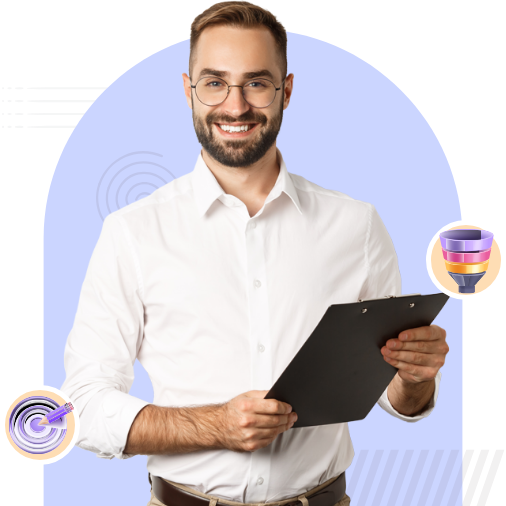
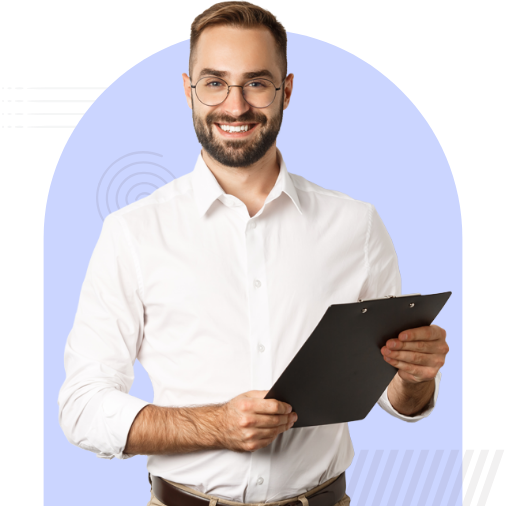
creditos

Changed region(s): [[0.83, 0.415, 1.0, 0.5929], [0.0, 0.7411, 0.1482, 0.919]]

diff --git a/src/config/global.js b/src/config/global.js
@@ -5,7 +5,16 @@ export default {
       'El componente formativo desarrolla la capacidad de comprender la ética como fundamento de la gestión del talento humano. Aborda los principios y valores éticos, las relaciones interpersonales, la cultura y el clima organizacional, y la inteligencia emocional, con el fin de orientar decisiones justas y construir ambientes laborales respetuosos en las organizaciones.',
     imagenBannerPrincipal: '@/assets/curso/portada/ilustracion.png',
     fondoBannerPrincipal: '@/assets/curso/portada/fondo-banner.png',
-    imagenesDecorativasBanner: [],
+    imagenesDecorativasBanner: [
+      {
+        clases: ['banner-principal-decorativo-1', 'd-none', 'd-lg-block'],
+        imagen: '@/assets/curso/portada/decorativo-1.png',
+      },
+      {
+        clases: ['banner-principal-decorativo-2', 'd-none', 'd-lg-block'],
+        imagen: '@/assets/curso/portada/decorativo-2.png',
+      },
+    ],
   },
   menuPrincipal: {
     menu: [
@@ -157,14 +166,84 @@ export default {
   },
   glosario: [
     {
-      termino: 'Término',
-      significado: 'Definición',
+      termino: 'Alteridad',
+      significado:
+        'capacidad de reconocer al otro como un ser diferente, con su propia historia, dignidad y perspectiva, y de relacionarse con él desde el reconocimiento y no desde la negación de su diferencia.',
+    },
+    {
+      termino: 'Clima organizacional',
+      significado:
+        'percepción colectiva que tienen los integrantes de una organización sobre el ambiente de trabajo, influida por factores como liderazgo, comunicación, equidad, desarrollo y relaciones interpersonales.',
+    },
+    {
+      termino: 'Cultura organizacional',
+      significado:
+        'conjunto de valores, creencias, normas y prácticas compartidas que definen la identidad de una organización y orientan el comportamiento de sus integrantes.',
+    },
+    {
+      termino: 'Ética',
+      significado:
+        'disciplina filosófica que estudia la conducta humana, sus principios y los criterios para distinguir lo correcto de lo incorrecto en las acciones de las personas.',
+    },
+    {
+      termino: 'Gestión del talento humano',
+      significado:
+        'conjunto de prácticas, políticas y procesos orientados a atraer, desarrollar, motivar y retener a las personas que contribuyen al logro de los objetivos institucionales.',
+    },
+    {
+      termino: 'Inteligencia emocional',
+      significado:
+        'capacidad de reconocer las emociones propias y ajenas, regularlas y emplearlas para orientar el pensamiento, la conducta y las relaciones.',
+    },
+    {
+      termino: 'Meritocracia',
+      significado:
+        'criterio de asignación de cargos, ascensos y reconocimientos según las capacidades y los logros demostrados, y no según vínculos personales o afinidades.',
+    },
+    {
+      termino: 'Política organizacional',
+      significado:
+        'lineamiento general establecido por la organización para orientar decisiones y comportamientos en áreas específicas.',
+    },
+    {
+      termino: 'Respeto',
+      significado:
+        'actitud de reconocimiento y consideración hacia la dignidad, ideas, tiempos, necesidades y derechos de los demás.',
     },
   ],
   referencias: [
     {
-      referencia: '---',
-      link: '---',
+      referencia:
+        'Cortina, A. (2013). <em>Ética de la razón cordial: Educar en la ciudadanía en el siglo XXI</em>. Ediciones Nobel.',
+    },
+    {
+      referencia:
+        'Goleman, D. (2012). <em>La inteligencia emocional en la empresa</em>. Vergara.',
+      link: 'https://www.bibliotecadigitaldebogota.gov.co/resources/3713806/',
+    },
+    {
+      referencia:
+        'Kant, I. (2013). <em>Fundamentación de la metafísica de las costumbres</em> (M. García Morente, Trad.). Tecnos. (Obra original publicada en 1785).',
+    },
+    {
+      referencia:
+        'Levinas, E. (2000). <em>Ética e infinito</em> (J. M. Ayuso Díez, Trad.). Gráficas Rógar.',
+    },
+    {
+      referencia:
+        'Llano, C. (2008). <em>El empresario y su mundo</em>. McGraw-Hill.',
+    },
+    {
+      referencia:
+        'Maslow, A. H. (2005). <em>El management según Maslow: Una visión humanista para la empresa de hoy</em>. Paidós.',
+    },
+    {
+      referencia:
+        'Ministerio de Trabajo. (2015). <em>Código Sustantivo del Trabajo</em>. República de Colombia.',
+    },
+    {
+      referencia:
+        'Robbins, S. P., y Judge, T. A. (2017). <em>Comportamiento organizacional</em> (17.ª ed.). Pearson.',
     },
   ],
   creditos: [
@@ -188,8 +267,8 @@ export default {
       titulo: 'CONTENIDO INSTRUCCIONAL',
       autores: [
         {
-          nombre: 'Gustavo Ernesto Mariño Puentes',
-          cargo: 'Experto temático',
+          nombre: 'Norma Constanza Morales Cruz',
+          cargo: 'Experta temática',
           centro: 'Centro de Comercio y Servicios - Regional Tolima',
         },
         {

diff --git a/src/styles/_custom.sass b/src/styles/_custom.sass
@@ -1,17 +1,34 @@
 @use 'variables' as *
+// Los dos distintivos de la portada. El pasteboard del XD deja la instruccion escrita
+// («Flotar verticalmente en diferentes tiempos»), asi que van FUERA de la ilustracion,
+// como imagenes decorativas con la animacion del scaffold y tiempos distintos.
+//
+// El kit los posiciona en absoluto contra la COLUMNA, que es mas ancha y mas alta que la
+// ilustracion; asi no hay forma de anclarlos a la imagen. Con una rejilla de una sola
+// celda, imagen y distintivos comparten caja y los margenes en % se resuelven contra el
+// ancho de esa celda, que es justo el de la ilustracion (506 px).
+//   distintivo 1: 80x80 en (857,538) -> pegado a la izquierda, 41 px sobre el borde inferior
+//   distintivo 2: 80x80 en (1283,373) -> pegado a la derecha, 206 px sobre el borde inferior
+.banner-principal__img
+  // `!important` porque la columna lleva `.d-lg-block` de Bootstrap, que es
+  // `display: block !important` y gana a cualquier `display` sin bandera.
+  display: grid !important
+  > img, > div
+    grid-area: 1 / 1
+  > div
+    position: relative !important
+    align-self: end
+    width: 15.8%                     // 80 de 506
+
 .banner-principal-decorativo
   &-1
     animation: float1 2.8s ease-in-out infinite alternate
-    position: absolute
-    top: 68%
-    left: -10%
-    width: 20%
+    justify-self: start
+    margin-bottom: 8.1%              // 41 de 506
   &-2
     animation: float1 2.5s ease-in-out infinite alternate
-    position: absolute
-    top: 30%
-    right: 10%
-    width: 20%
+    justify-self: end
+    margin-bottom: 40.7%             // 206 de 506
 
 
 @keyframes float1

diff --git a/fuentes/REVISION-PENDIENTES.md b/fuentes/REVISION-PENDIENTES.md
@@ -131,3 +131,34 @@ Tres cosas que conviene saber:
   («¿Qué es la ética según el componente formativo»). Se añadió el «?». La fila del comentario
   correcto de la pregunta 9 también viene sin su etiqueta en el documento, aunque el texto sí
   está y se usó tal cual.
+
+## 12. Glosario, referencias y créditos
+
+Los nueve términos del glosario y las ocho referencias salen del `_DI.docx`. Dos apuntes sobre
+la fuente:
+
+- En el glosario, la entrada **«Ética»** viene separada por un punto y no por dos puntos, como
+  las otras ocho. Se unificó con los dos puntos.
+- La referencia de **Goleman (2012)** trae debajo un enlace a la Biblioteca Digital de Bogotá;
+  se asoció a esa entrada, que es a la que corresponde.
+
+En los créditos, el bloque de **contenido instruccional** traía del scaffold un nombre que no es
+el de este curso. Según el `CONTROL DEL DOCUMENTO` del `_DI.docx`, la experta temática es
+**Norma Constanza Morales Cruz** (abril de 2026) y la evaluadora instruccional **Gloria Lida
+Alzate Suárez** (agosto de 2026). Los otros tres bloques —ecosistema, diseño y desarrollo, y
+validación— se dejan como venían: ninguna de las fuentes los contradice.
+
+## 13. Los dos distintivos de la portada flotan
+
+El pasteboard del XD lleva escrita la instrucción **«Flotar verticalmente en diferentes
+tiempos»** junto al rótulo `DESARROLLADORES`, referida a los dos distintivos circulares de la
+portada (la diana y el embudo). Se sacaron de la ilustración y se montaron como imágenes
+decorativas con la animación del scaffold y tiempos distintos (2,8 s y 2,5 s).
+
+Para anclarlos a la ilustración y no a la columna —que es más ancha y más alta—, la columna de
+la imagen pasa a ser una rejilla de una sola celda: imagen y distintivos comparten caja y los
+márgenes en porcentaje se resuelven contra el ancho de la ilustración. Medido contra el XD, los
+dos caen a menos de 7 px de su posición.
+
+Junto a esa nota, el pasteboard deja también un enlace al icono `headset` de Font Awesome. No
+indica dónde va; el reproductor del pódcast usa el icono propio del kit.
